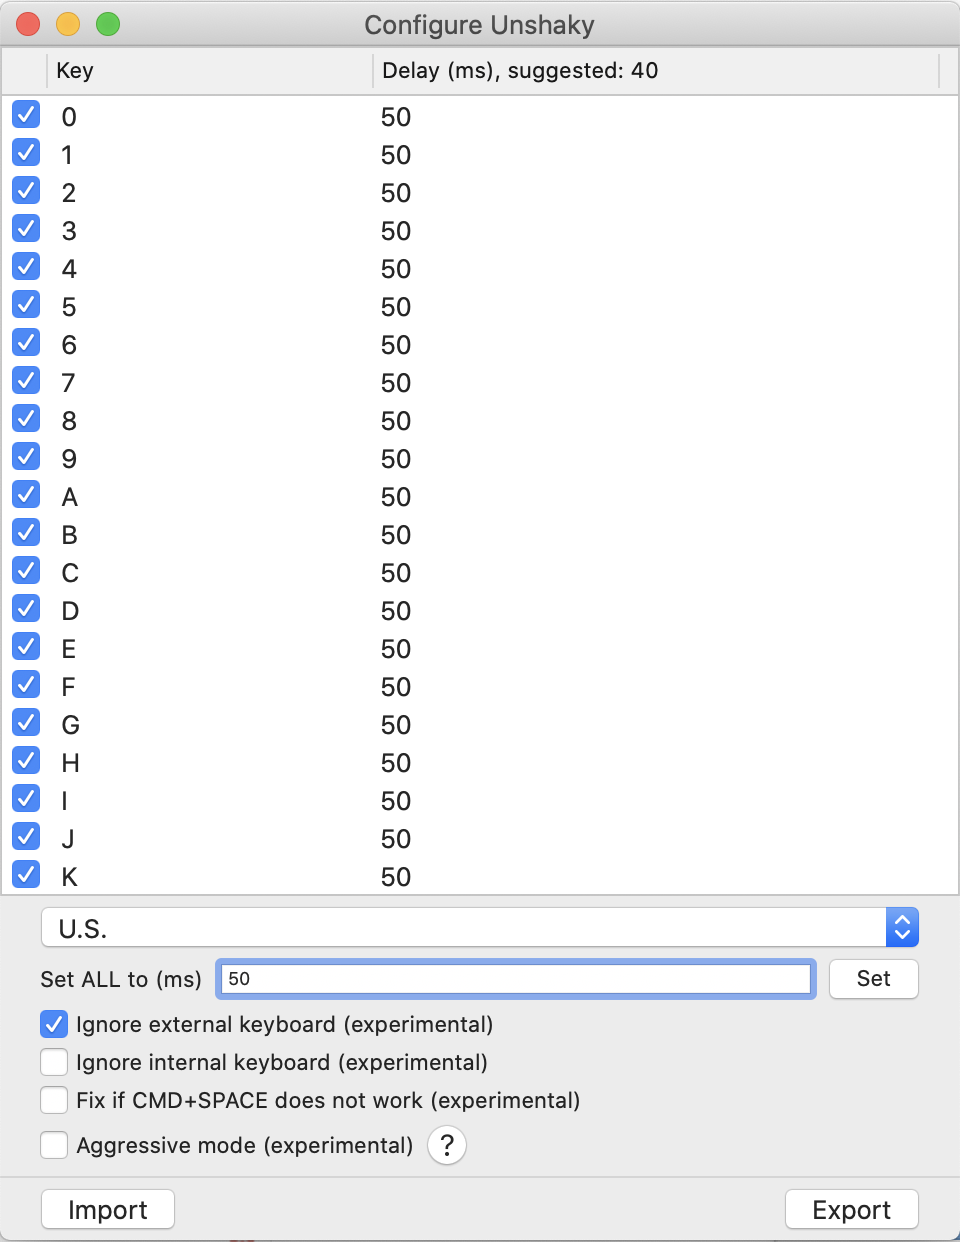
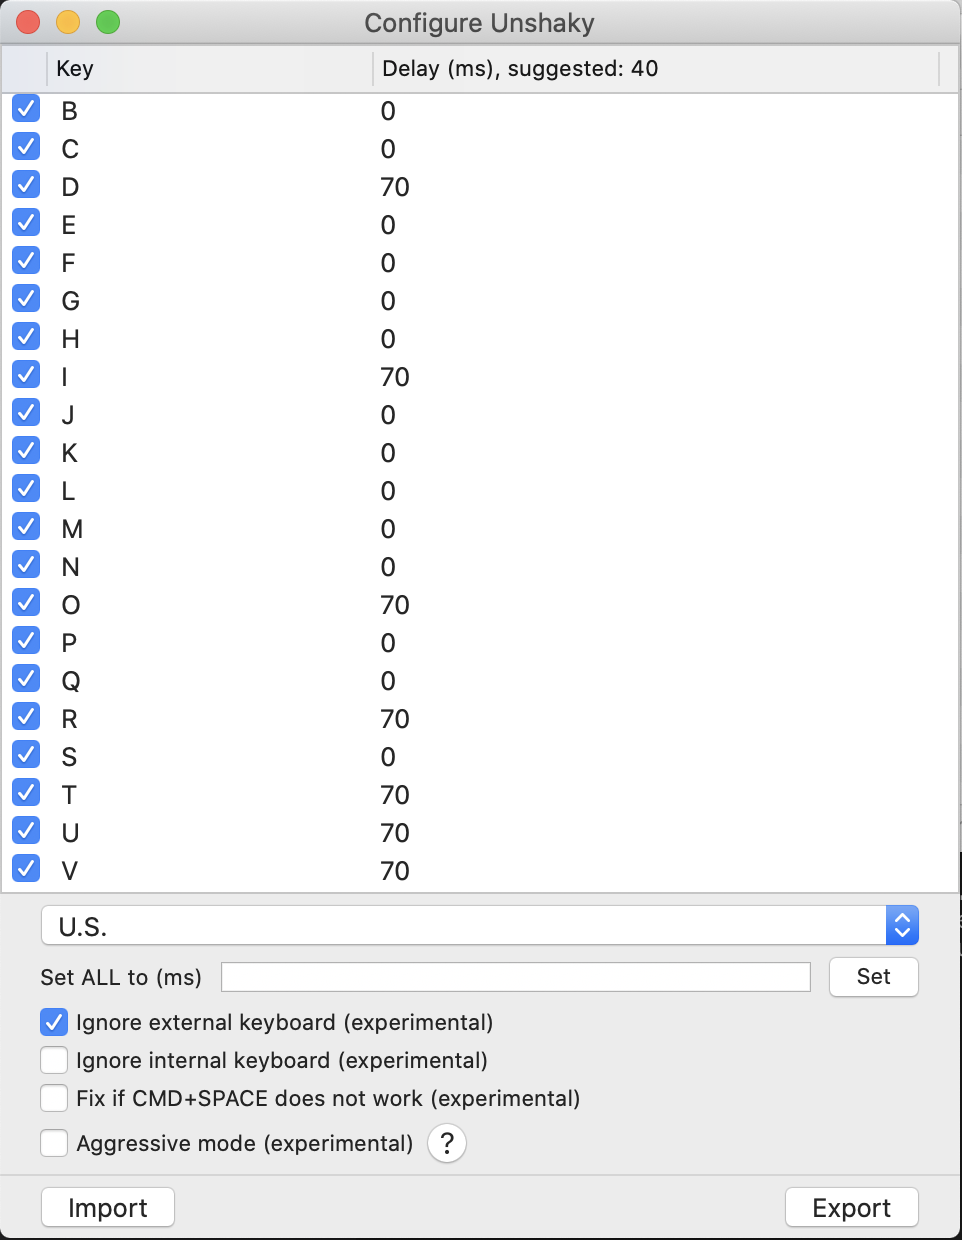
Fill unshaky

diff --git a/content/posts/mac-butterfly-keyboard-double-key-press.md b/content/posts/mac-butterfly-keyboard-double-key-press.md
@@ -13,14 +13,34 @@ Having a look at the way the keyboard is built, it does come close to the keyboa
 
 ## How to fix it
 
-Apple butterfly keyboards suffer physical damage after months of use and this will show as doubling of the keys being pressed. This is nothing but an imperfect electrical contact.
+Apple butterfly keyboards suffer physical damage after months of use and this will show as doubling of the keys being pressed. This is nothing but an imperfect electrical contact due to a hardware damage.
 
-* How to fix this? By replacing the damaged lead (i.e. the plastic foil), but this is expensive.
-* How to prolong the keyboard life?
-    * Using a software that prevents doubling of the keys. Easy!
-    * Tweaking the keys by extending the electrical contact area. Requires dexterity and effort.
+* How to properly fix this? By replacing the damaged lead (i.e. the plastic foil). The downside is that this is expensive and you will have to keep doing this for every key that fails to work properly.
+* How to temporary fix this? Using a software that prevents doubling of the keys.
 
 ## Using Unshaky
 
-A software that addressed just that, preventing a key to register multiple sequential clicks.
+A software that addressed just that, preventing a key to register multiple sequential clicks by throttling the keys. In other words, disabling the keys for a fraction of a second after the initial press so that it does not register multiple times. This fraction of a second is configurable for each key individually and it is expressed in milliseconds.
+
+My overall experience with this tool has been promising and has definitely improved the previously frustrating
+experience of having to keep correcting myself each and every time a key would double. However, I still feel relieved
+whenever I switch to an old or in fact, to any other keyboard. This keyboard is absolute garbage when it comes to enjoying the act of typing.
+
+Coming back to Unshaky, I was able to make this work for me by following these steps:
+1. Set a 70ms delay for all keys and start using your mac for a few days.
+2. Open the statistics window where you can see a top of all the shaky keys that have been identified. Reset the delay to 0ms to all keys and set a 70ms delay only for the most notorious shaky keys. Some may just be false positives where you actually intended to have them double pressed (eg: left arrow).
+3. For any new shaky key that did not make the top initially, set a 70ms delay. 
+4. Rinse and repeat step 3.
+
+![Shaky Stats](/images/unshaky/unshaky-stats.png)
+![Shaky Stats](/images/unshaky/unshaky-config.png)
+
+That's it. Enjoy your keyboard for a few more... months probably.
+
+
+
+
+
+
+
 

diff --git a/README.md b/README.md
@@ -1,2 +1,6 @@
 # martinescu
 Personal website.
+
+```
+hugo server -D
+```
